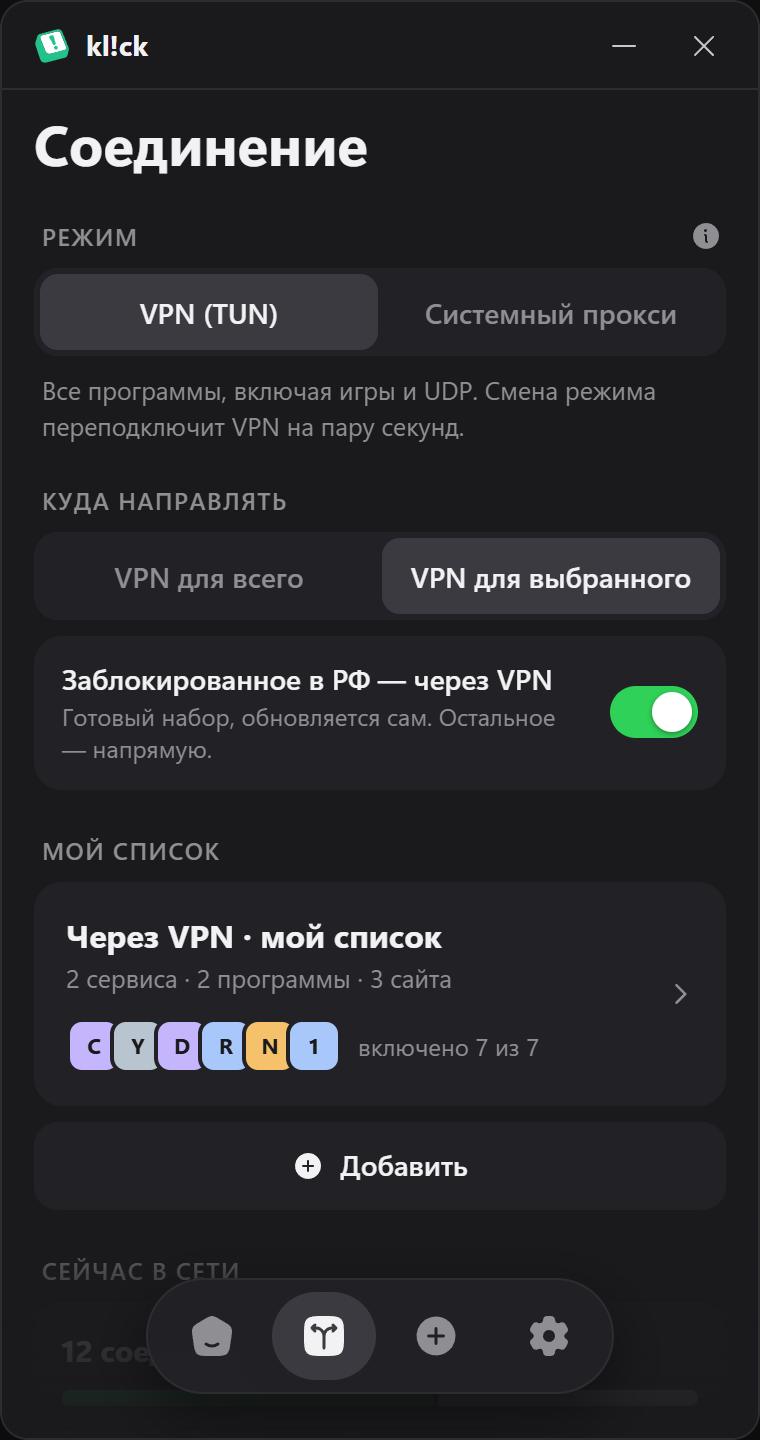
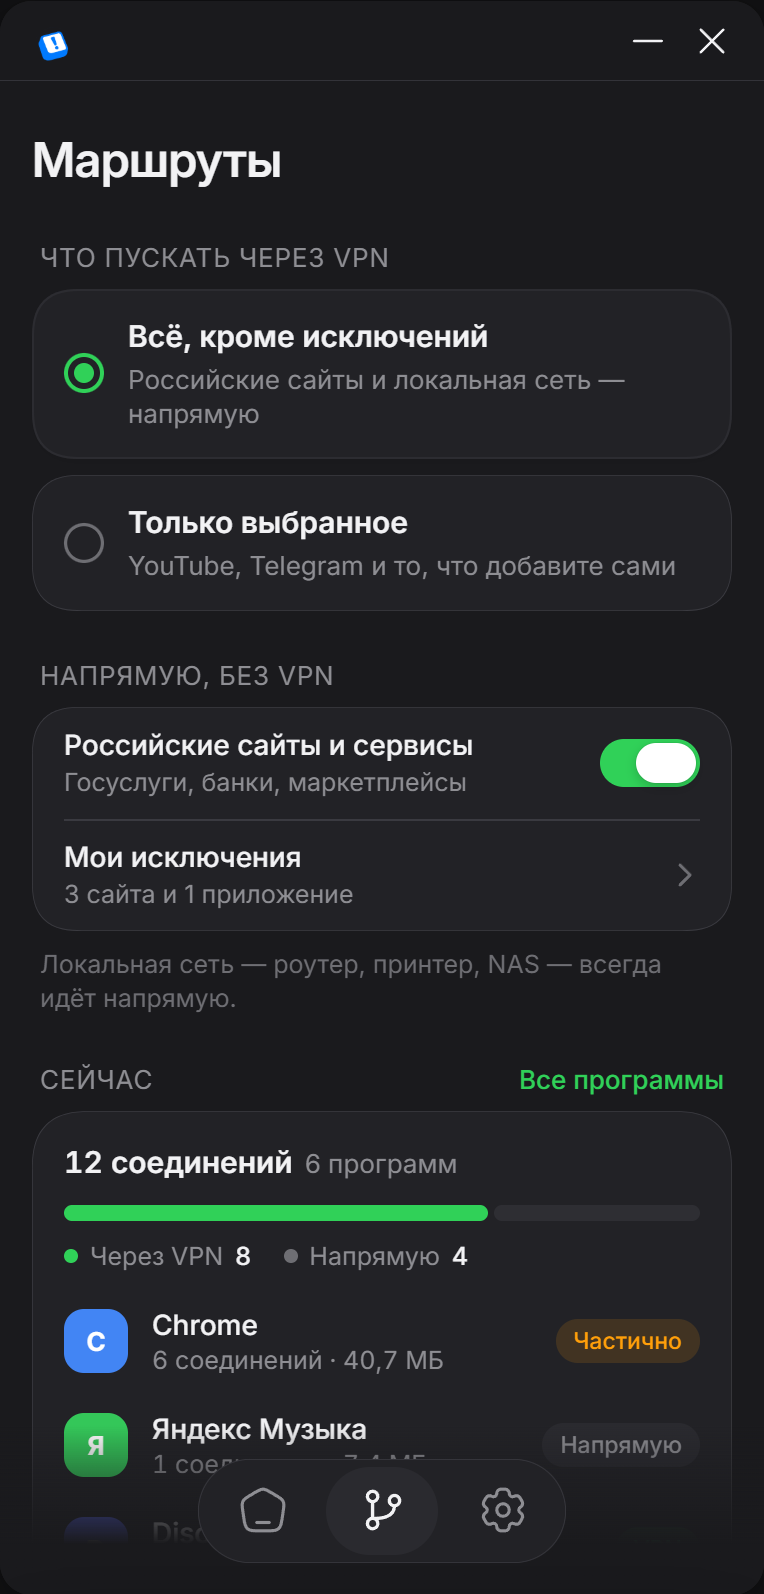
README, скриншоты и проверка в Песочнице — под новое окно на 0.5.4
README: Главная, Маршруты, Скорость и Диагностика вместо вкладки
«Соединение». Скриншоты пересняты. Сценарий ролика (npm run video) идёт
по новым экранам; ролик и GIF не перезаписывались.

Песочница: ui-check проходит все экраны и листы окна щелчками по кнопкам
(UI Automation) со снимком после каждого шага и проверяет команды службы
для окна по каналу управления. ui-check — провалов 0, run.ps1 — провалов 0.

diff --git a/ui/src/bm/Shell.tsx b/ui/src/bm/Shell.tsx
@@ -281,6 +281,7 @@ function ToastView({ toast, onAct }: { toast: ReturnType<typeof useStore>['toast
   return (
     <div
       role="status"
+      className="bm-toast"
       aria-live="polite"
       style={{
         ...css('position: absolute; left: 50%; bottom: 82px; z-index: 25; display: flex; align-items: center; gap: 8px; padding: 9px 14px; border-radius: 999px; background: var(--accentToast); color: #fff; font-size: 12.5px; font-weight: 500; white-space: nowrap; box-shadow: 0 10px 24px rgba(0,0,0,.18); transition: transform .35s cubic-bezier(.32,.72,0,1), opacity .25s ease'),

diff --git a/README.md b/README.md
@@ -32,7 +32,7 @@ VPN держит служба Windows, а не окно: окно работае
   <tr>
     <td align="center"><img src="docs/screenshots/home-dark.png" width="260" /><br/><sub>Главная</sub></td>
     <td align="center"><img src="docs/screenshots/home-light.png" width="260" /><br/><sub>Главная · светлая тема</sub></td>
-    <td align="center"><img src="docs/screenshots/connection-dark.png" width="260" /><br/><sub>Соединение: режим и маршрутизация</sub></td>
+    <td align="center"><img src="docs/screenshots/connection-dark.png" width="260" /><br/><sub>Маршруты: что пускать через VPN</sub></td>
   </tr>
   <tr>
     <td align="center"><img src="docs/screenshots/tray-dark.png" width="220" /><br/><sub>Окно трея — по правому щелчку</sub></td>
@@ -57,11 +57,16 @@ VPN держит служба Windows, а не окно: окно работае
   (`.json`, в том числе массивы Remnawave), WireGuard и AmneziaWG (`.conf`),
   Shadowsocks SIP008, списки ссылок. Из чужих форматов берутся серверы.
 - Кнопка «Добавить в kl!ck» на странице подписки (ссылка `klick://add`)
-  открывает kl!ck с уже вставленной подпиской — остаётся нажать «Добавить».
+  открывает kl!ck с уже вставленной подпиской — остаётся нажать «Добавить подписку».
+- Подписки — вкладками на главной; у каждой срок, остаток трафика и меню:
+  скопировать ссылку, страница подписки и поддержка (если их даёт панель),
+  переименовать, удалить.
 - Предупреждения о конце срока и трафика подписки.
 
 **Серверы**
-- Переключение на лету, без переподключения.
+- Список серверов — прямо в карточке подписки, по странам (можно выключить),
+  «Авто» — самый быстрый. Серверы другой подписки видны без переключения на неё.
+- Переключение на лету, без перезапуска ядра.
 - Задержка — настоящий запрос через сервер, а не пинг; меряется и при
   выключенном VPN.
 - Если сервер перестал отвечать: переподключиться и ждать, перейти на
@@ -76,24 +81,28 @@ VPN держит служба Windows, а не окно: окно работае
 - Если рядом работает то, что мешает VPN (zapret, GoodbyeDPI, другой
   VPN-клиент), kl!ck предупредит.
 
-**Куда направлять**
-- **VPN для всего** — через VPN идёт всё; российские сайты и адреса можно
-  пустить напрямую переключателями.
-- **VPN для выбранного** — через VPN только нужное: готовый набор
+**Маршруты** — что пускать через VPN
+- **Всё, кроме исключений** — через VPN идёт всё; российские сайты и сервисы
+  одним переключателем идут напрямую (заблокированное в РФ — всё равно через
+  VPN), плюс ваши исключения — сайты и программы.
+- **Только выбранное** — через VPN только нужное: готовый набор
   «Заблокированное в РФ» (встроенный список плюс общий список сообщества
   [itdoginfo/allow-domains](https://github.com/itdoginfo/allow-domains),
-  обновляется раз в сутки) и ваш список. Остальное — напрямую.
-- В свой список добавляются сервисы из каталога, программы, сайты и IP.
-  Правило можно выключить, не удаляя.
+  обновляется раз в сутки), YouTube, Telegram, Discord, Instagram, ChatGPT
+  переключателями и ваши сайты и программы. Остальное — напрямую.
 - Локальная сеть — роутер, принтер, NAS — всегда напрямую.
+- **Сейчас:** какие программы ходят в сеть и куда — через VPN, напрямую или
+  частично.
+- **Диагностика:** проверка серверов подписки из вашей сети — какие работают,
+  какие режет провайдер, а какие подвисают на загрузке (так глушит VPN ТСПУ);
+  сайты, которые недавно не открылись, — их можно пустить через VPN или
+  напрямую одной кнопкой.
 
-**Соединение** — отдельная вкладка
-- **Сейчас в сети:** какие программы куда ходят — через VPN или напрямую, —
-  и тумблер у каждой, чтобы поменять.
-- **Не открывается?** — неудачные соединения и причина.
-- **Как вас видят сайты** — IP, страна и провайдер через VPN и напрямую,
+**Скорость** — по нажатию на скорость на главной
+- Загрузка и отдача, график за последнюю минуту, пик, среднее и трафик за
+  сеанс, задержка текущего сервера, замер скорости сервера.
+- **Как вас видят сайты** — страна, IP и провайдер через VPN и напрямую,
   утечки DNS и IPv6.
-- Живая схема: что сейчас идёт через VPN, что напрямую.
 
 **Kill Switch**
 - Отмеченные программы не выйдут в интернет мимо VPN: пока VPN выключен или
@@ -113,11 +122,11 @@ VPN держит служба Windows, а не окно: окно работае
 
 **Прочее**
 - Темы: системная, светлая, тёмная или своя — основы «Графит», «Полночь»,
-  OLED, светлая и шесть цветов акцента.
+  OLED, светлая и шесть цветов акцента; «Стекло» — полупрозрачные карточки.
 - Запуск с Windows свёрнутым в трей; «Восстанавливать подключение» после
   перезагрузки.
 - Журнал службы и отчёт для поддержки — без адресов сайтов и серверов.
-- «Проверить скорость»: сколько реально скачивается и отдаётся через сервер; скорость видна и в
+- «Скорость сервера»: сколько реально скачивается и отдаётся через сервер; скорость видна и в
   списке серверов.
 - Скопировали ссылку на подписку — kl!ck сам предложит её добавить.
 - Обновление в один клик (Windows и macOS): kl!ck сам замечает новую версию, по кнопке «Обновить»
@@ -129,7 +138,7 @@ VPN держит служба Windows, а не окно: окно работае
 2. Запустите — нужны Windows 10/11 x64 и один раз права администратора: они
    нужны, чтобы поставить службу. Если нет WebView2 Runtime, установщик
    поставит его сам.
-3. «Добавить» → вставьте ссылку на подписку → кнопка питания.
+3. «+» на главной → вставьте ссылку на подписку → кнопка питания.
 
 Прежнюю kl!ck установщик найдёт сам, перенесёт подписки и удалит её.
 

diff --git a/docs/DEVELOPMENT.md b/docs/DEVELOPMENT.md
@@ -133,7 +133,7 @@ cd ..
 cargo build -p klick-ui
 ```
 
-В браузере окно работает с тестовой службой (`ui/src/lib/mock.ts`): под окном переключатель состояний — нет подключений, выключен, подключён, переподключение, сервер не отвечает, ошибка, мешает zapret. Окно трея — `?view=tray` (например `http://127.0.0.1:5173/?view=tray&s=connected`), светлая тема — `&theme=light`. В Tauri окно говорит с настоящей службой через `\\.\pipe\klick`; со службой для разработки — если запустить с переменной `KLICK_DEV=1`.
+Главное окно (`ui/src/bm`) свёрстано по макету Димы «kl!ck — интерактивный прототип»: окно 382×797, стили и значки перенесены из макета без изменений (`ui/src/styles/bm.css`, `ui/src/bm/paths.ts`), шрифт Inter лежит в программе. В браузере окно работает с тестовой службой (`ui/src/lib/mock.ts`) на данных из макета: под окном переключатель состояний — подключён, выключен, сервер не отвечает, обрыв связи, подписка истекла, трафик кончился, нет подписок, VPN не включился, мешает zapret, мешает расширение браузера, Kill Switch без прокси. Окно трея — `?view=tray` (например `http://127.0.0.1:5173/?view=tray&s=connected`), тёмная тема — `&theme=dark`, система — `&os=mac` или `&os=ios`, список серверов без стран — `&countries=0`. В Tauri окно говорит с настоящей службой через `\\.\pipe\klick`; со службой для разработки — если запустить с переменной `KLICK_DEV=1`.
 
 Настоящим окном можно управлять из скрипта: с переменной `WEBVIEW2_ADDITIONAL_BROWSER_ARGUMENTS=--remote-debugging-port=9341` WebView2 открывает порт отладки (протокол Chrome DevTools) — так проверялись шаги окна без мыши. В рабочей сборке переменную не задавать.
 
@@ -220,7 +220,7 @@ powershell -File sandbox\start.ps1 -Release -Script ks-browser
 - **Значки** — крупные клавиши kl!ck: подключено, подключаюсь (синий), сервер не отвечает, ошибка, выключено (серый).
 - **Названия положений:** «VPN для всего» и «VPN для выбранного».
 - **Набор «Заблокированное в РФ»** дополнен общим списком itdoginfo/allow-domains (~1200 доменов): ядро качает его само через VPN раз в сутки; не скачался — работает встроенный.
-- **Песочница:** `run.ps1` ставит WebView2 сам (в образе Песочницы его бывает нет) и не путает проверку связи ядра с обычным сайтом; новый сценарий `ui-check` — установщик с переносом подписок, снимки окна и трея, «Развернуть», чужой канал.
+- **Песочница:** `run.ps1` ставит WebView2 сам (в образе Песочницы его бывает нет) и не путает проверку связи ядра с обычным сайтом; новый сценарий `ui-check` (`sandbox\start.ps1 -Release -Script ui-check`) — установщик с переносом подписок, снимки окна и трея, все экраны и листы окна щелчками по кнопкам (UI Automation) со снимком после каждого шага (`results\desk-*.png`), команды службы для окна по каналу управления, «Развернуть», чужой канал, ссылки `klick://add`.
 
 ## Ветки limeflash
 
